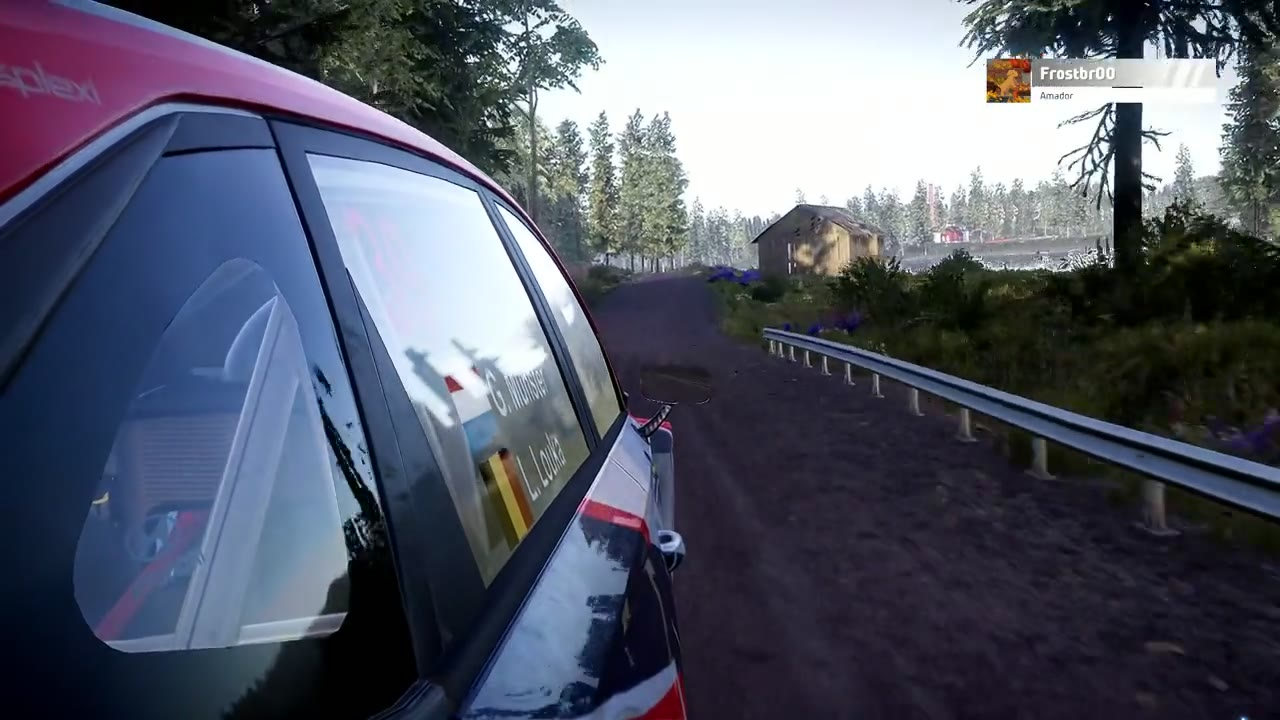
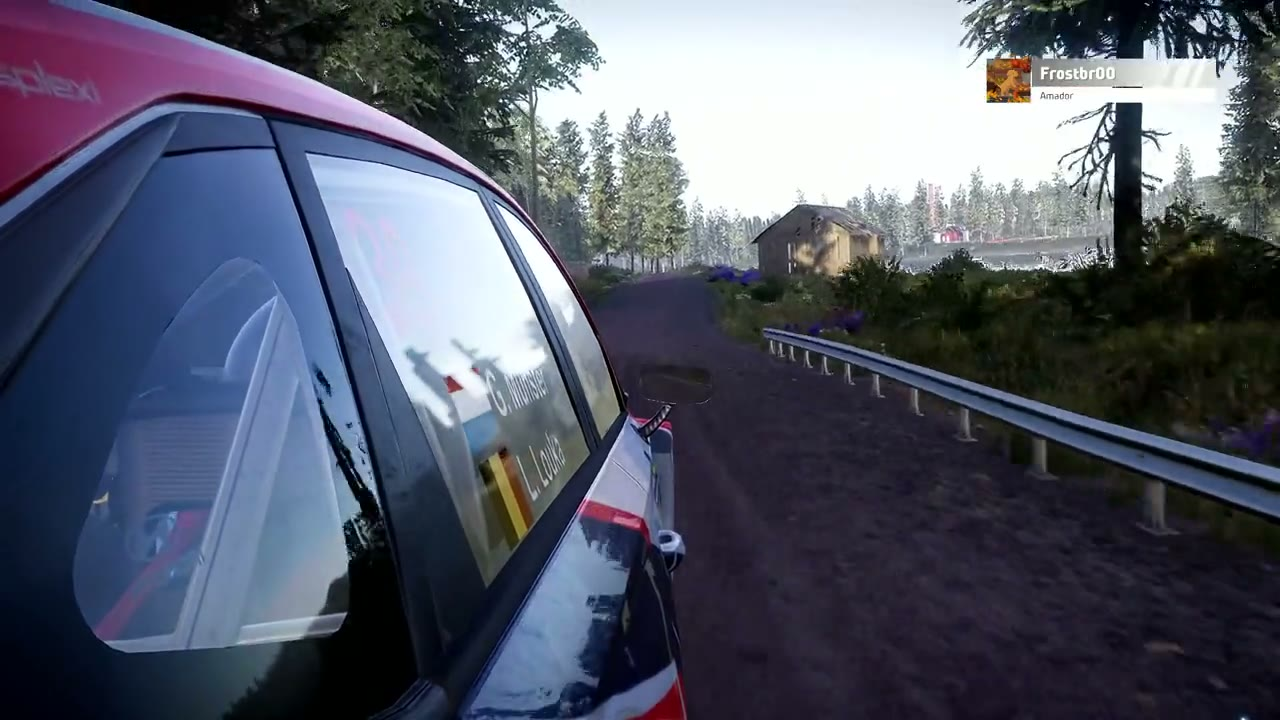
Corrige reprodução de vídeo entre navegadores e adiciona biografia
Recodifica os dois vídeos com pixel format yuv420p em faixa de cor
limitada (o full-range yuvj420p anterior falhava em Safari/iOS) e
remove uma trilha de timecode residual do clipe de CS2. Adiciona
seção "Sobre mim" com biografia completa e link da Steam, além de
um segundo botão de Steam na seção de contato.

diff --git a/assets/css/style.css b/assets/css/style.css
@@ -421,6 +421,55 @@ button {
   color: var(--text-dim);
 }
 
+/* ---- Bio ---- */
+.bio-block {
+  margin-top: 2.6rem;
+  padding: 2.2rem 2rem;
+  background: var(--surface);
+  border: 1px solid var(--border);
+  border-left: 3px solid var(--accent);
+  border-radius: 4px 18px 18px 4px;
+  display: flex;
+  flex-direction: column;
+  gap: 1.1rem;
+  max-width: 780px;
+}
+
+.bio-title {
+  font-size: 1.3rem;
+  color: var(--accent);
+  letter-spacing: 0.03em;
+}
+
+.bio-block p {
+  color: var(--text-dim);
+  font-size: 1rem;
+  line-height: 1.75;
+}
+
+.bio-block strong {
+  color: var(--text);
+}
+
+.profile-links {
+  display: flex;
+  flex-wrap: wrap;
+  gap: 1rem;
+  margin-top: 0.4rem;
+}
+
+.btn-steam {
+  background: linear-gradient(90deg, #1b2838, #2a475e);
+  color: #66c0f4;
+  border: 1px solid #2a475e;
+}
+
+.btn-steam:hover {
+  transform: translateY(-3px);
+  box-shadow: 0 10px 30px rgba(102, 192, 244, 0.3);
+  color: #c7ecff;
+}
+
 /* ---- Cards (hobbies) ---- */
 .card-grid {
   display: flex;
@@ -575,6 +624,10 @@ button {
   color: var(--text-dim);
 }
 
+.contact .profile-links {
+  justify-content: center;
+}
+
 .social-btn {
   display: inline-flex;
   align-items: center;
@@ -590,6 +643,14 @@ button {
 .social-btn:hover {
   transform: translateY(-4px);
   box-shadow: 0 12px 30px rgba(255, 46, 230, 0.35);
+}
+
+.social-btn-steam {
+  background: linear-gradient(90deg, #1b2838, #2a475e);
+}
+
+.social-btn-steam:hover {
+  box-shadow: 0 12px 30px rgba(102, 192, 244, 0.3);
 }
 
 /* ==========================================================

diff --git a/index.html b/index.html
@@ -68,10 +68,33 @@
           <li><span class="info-label">País</span><span class="info-value">Brasil 🇧🇷</span></li>
           <li><span class="info-label">Curso</span><span class="info-value">Sistemas para Internet (SI)</span></li>
         </ul>
-        <p class="about-text">
-          Curto tudo o que envolve tecnologia, velocidade e um bom desafio — seja programando algo
-          novo, competindo em um rally virtual ou cuidando do treino na academia.
-        </p>
+      </div>
+    </div>
+
+    <div class="bio-block">
+      <h3 class="bio-title">Sobre mim</h3>
+      <p>
+        Olá! Meu nome é <strong>Abner Salatiel de Oliveira</strong>. Atualmente curso
+        <strong>Sistemas para Internet (SI)</strong> na <strong>FATEC</strong> e, em 2026, tenho
+        <strong>24 anos</strong>.
+      </p>
+      <p>
+        Também concluí o curso técnico de <strong>Desenvolvimento de Sistemas</strong> pela
+        <strong>ETEC</strong>, onde tive meu primeiro contato mais aprofundado com programação.
+      </p>
+      <p>
+        Meu objetivo é construir uma carreira sólida como desenvolvedor de software, buscando
+        constantemente aprender novas tecnologias e aprimorar minhas habilidades.
+      </p>
+      <p>
+        Nas horas vagas gosto de jogar videogame, viajar de carro, treinar na academia e estudar
+        Inteligência Artificial. Também passo bastante tempo jogando na Steam.
+      </p>
+      <div class="profile-links">
+        <a href="https://steamcommunity.com/id/Frostbr00/" target="_blank" rel="noopener noreferrer" class="btn btn-steam">
+          <svg class="icon" viewBox="0 0 24 24" aria-hidden="true"><path d="M12 1.7C6.6 1.7 2.1 5.7 1.4 10.9l5.6 2.3a3 3 0 0 1 1.7-.5l2.5-3.6v-.05a3.75 3.75 0 1 1 3.75 3.75h-.1l-3.5 2.5a3 3 0 0 1-5.9.85l-4-1.6A10.3 10.3 0 0 0 12 22.3c5.7 0 10.3-4.6 10.3-10.3S17.7 1.7 12 1.7zM7.6 16.8l-1.3-.5a2.25 2.25 0 0 0 4.15-1.5l1.35.55a3.6 3.6 0 0 1-4.2 1.45zm3.9-6.75a2.5 2.5 0 1 0 2.5 2.5 2.5 2.5 0 0 0-2.5-2.5zm.05.95a1.55 1.55 0 1 1-1.55 1.55 1.55 1.55 0 0 1 1.55-1.55z"/></svg>
+          Steam · Frostbr00
+        </a>
       </div>
     </div>
   </section>
@@ -163,10 +186,16 @@
       <h2>Vamos nos conectar</h2>
     </div>
     <p class="contact-text">Me acompanhe nas redes sociais para ver mais do meu dia a dia.</p>
-    <a href="https://www.instagram.com/frostbr00_/" target="_blank" rel="noopener noreferrer" class="social-btn">
-      <svg class="icon" viewBox="0 0 24 24" aria-hidden="true"><path d="M12 2.2c3.2 0 3.6 0 4.9.07 1.2.06 2.4.3 3.3 1.2.9.9 1.15 2.1 1.2 3.3.07 1.3.07 1.7.07 4.9s0 3.6-.07 4.9c-.06 1.2-.3 2.4-1.2 3.3-.9.9-2.1 1.15-3.3 1.2-1.3.07-1.7.07-4.9.07s-3.6 0-4.9-.07c-1.2-.06-2.4-.3-3.3-1.2-.9-.9-1.15-2.1-1.2-3.3C2.2 15.6 2.2 15.2 2.2 12s0-3.6.07-4.9c.06-1.2.3-2.4 1.2-3.3.9-.9 2.1-1.15 3.3-1.2C8.4 2.2 8.8 2.2 12 2.2zm0 1.8c-3.15 0-3.5 0-4.75.07-1 .05-1.9.24-2.6.94-.7.7-.89 1.6-.94 2.6C3.6 8.65 3.6 9 3.6 12s0 3.35.07 4.6c.05 1 .24 1.9.94 2.6.7.7 1.6.89 2.6.94 1.25.06 1.6.07 4.75.07s3.5 0 4.75-.07c1-.05 1.9-.24 2.6-.94.7-.7.89-1.6.94-2.6.06-1.25.07-1.6.07-4.6s0-3.35-.07-4.6c-.05-1-.24-1.9-.94-2.6-.7-.7-1.6-.89-2.6-.94C15.5 4 15.15 4 12 4zm0 3.3a4.7 4.7 0 1 1 0 9.4 4.7 4.7 0 0 1 0-9.4zm0 1.8a2.9 2.9 0 1 0 0 5.8 2.9 2.9 0 0 0 0-5.8zm5-1.6a1.1 1.1 0 1 1-2.2 0 1.1 1.1 0 0 1 2.2 0z"/></svg>
-      Seguir no Instagram
-    </a>
+    <div class="profile-links">
+      <a href="https://www.instagram.com/frostbr00_/" target="_blank" rel="noopener noreferrer" class="social-btn">
+        <svg class="icon" viewBox="0 0 24 24" aria-hidden="true"><path d="M12 2.2c3.2 0 3.6 0 4.9.07 1.2.06 2.4.3 3.3 1.2.9.9 1.15 2.1 1.2 3.3.07 1.3.07 1.7.07 4.9s0 3.6-.07 4.9c-.06 1.2-.3 2.4-1.2 3.3-.9.9-2.1 1.15-3.3 1.2-1.3.07-1.7.07-4.9.07s-3.6 0-4.9-.07c-1.2-.06-2.4-.3-3.3-1.2-.9-.9-1.15-2.1-1.2-3.3C2.2 15.6 2.2 15.2 2.2 12s0-3.6.07-4.9c.06-1.2.3-2.4 1.2-3.3.9-.9 2.1-1.15 3.3-1.2C8.4 2.2 8.8 2.2 12 2.2zm0 1.8c-3.15 0-3.5 0-4.75.07-1 .05-1.9.24-2.6.94-.7.7-.89 1.6-.94 2.6C3.6 8.65 3.6 9 3.6 12s0 3.35.07 4.6c.05 1 .24 1.9.94 2.6.7.7 1.6.89 2.6.94 1.25.06 1.6.07 4.75.07s3.5 0 4.75-.07c1-.05 1.9-.24 2.6-.94.7-.7.89-1.6.94-2.6.06-1.25.07-1.6.07-4.6s0-3.35-.07-4.6c-.05-1-.24-1.9-.94-2.6-.7-.7-1.6-.89-2.6-.94C15.5 4 15.15 4 12 4zm0 3.3a4.7 4.7 0 1 1 0 9.4 4.7 4.7 0 0 1 0-9.4zm0 1.8a2.9 2.9 0 1 0 0 5.8 2.9 2.9 0 0 0 0-5.8zm5-1.6a1.1 1.1 0 1 1-2.2 0 1.1 1.1 0 0 1 2.2 0z"/></svg>
+        Seguir no Instagram
+      </a>
+      <a href="https://steamcommunity.com/id/Frostbr00/" target="_blank" rel="noopener noreferrer" class="social-btn social-btn-steam">
+        <svg class="icon" viewBox="0 0 24 24" aria-hidden="true"><path d="M12 1.7C6.6 1.7 2.1 5.7 1.4 10.9l5.6 2.3a3 3 0 0 1 1.7-.5l2.5-3.6v-.05a3.75 3.75 0 1 1 3.75 3.75h-.1l-3.5 2.5a3 3 0 0 1-5.9.85l-4-1.6A10.3 10.3 0 0 0 12 22.3c5.7 0 10.3-4.6 10.3-10.3S17.7 1.7 12 1.7zM7.6 16.8l-1.3-.5a2.25 2.25 0 0 0 4.15-1.5l1.35.55a3.6 3.6 0 0 1-4.2 1.45zm3.9-6.75a2.5 2.5 0 1 0 2.5 2.5 2.5 2.5 0 0 0-2.5-2.5zm.05.95a1.55 1.55 0 1 1-1.55 1.55 1.55 1.55 0 0 1 1.55-1.55z"/></svg>
+        Perfil na Steam
+      </a>
+    </div>
   </section>
 
 </main>

diff --git a/README.md b/README.md
@@ -7,12 +7,23 @@ Site de perfil/portfólio pessoal de **Abner Salatiel de Oliveira**, estudante d
 ## Conteúdo do site
 
 - **Hero** com efeito glitch no título e chamada para ação
-- **Sobre**: nome, data de nascimento, país e curso
+- **Sobre**: nome, data de nascimento, país, curso e uma **biografia completa** (formação, objetivo profissional e hobbies), com link destacado para o perfil da Steam
 - **Hobbies**: jogar videogame, academia, andar de carro
 - **Interesses**: SUVs, rally, jogos de FPS, programação
 - **Galeria** de fotos responsiva com lightbox (clique para ampliar)
 - **Vídeos**: dois clipes (WRC Generations e CS2) com player HTML5 nativo, controles e adaptação automática de tamanho
-- **Contato**: botão para o Instagram, abrindo em nova guia
+- **Contato**: botões para Instagram e Steam, ambos abrindo em nova guia
+
+## Correções e melhorias (última atualização)
+
+- **Vídeos corrigidos para reprodução em todos os navegadores modernos.** Os arquivos originais foram recodificados
+  com `yuvj420p` (faixa de cor *full range*), um formato que o Safari/iOS costuma recusar a decodificar, e o clipe do
+  CS2 carregava uma trilha extra de timecode (`tmcd`) herdada do `.mov` original, o que podia confundir alguns
+  decodificadores. Ambos os vídeos foram recomprimidos com `yuv420p` em faixa de cor limitada (*tv range*, padrão
+  para vídeo web), sem faixas de dados extras, mantendo controles nativos e responsividade total.
+- **Biografia adicionada** na seção "Sobre", com o link do perfil da Steam em destaque (botão com ícone), além de
+  um segundo botão de Steam na seção de contato ao lado do Instagram.
+- Verificação de imagens, vídeos e links (âncoras internas e externos) sem 404 ou recursos quebrados.
 
 ## Tecnologias utilizadas
 